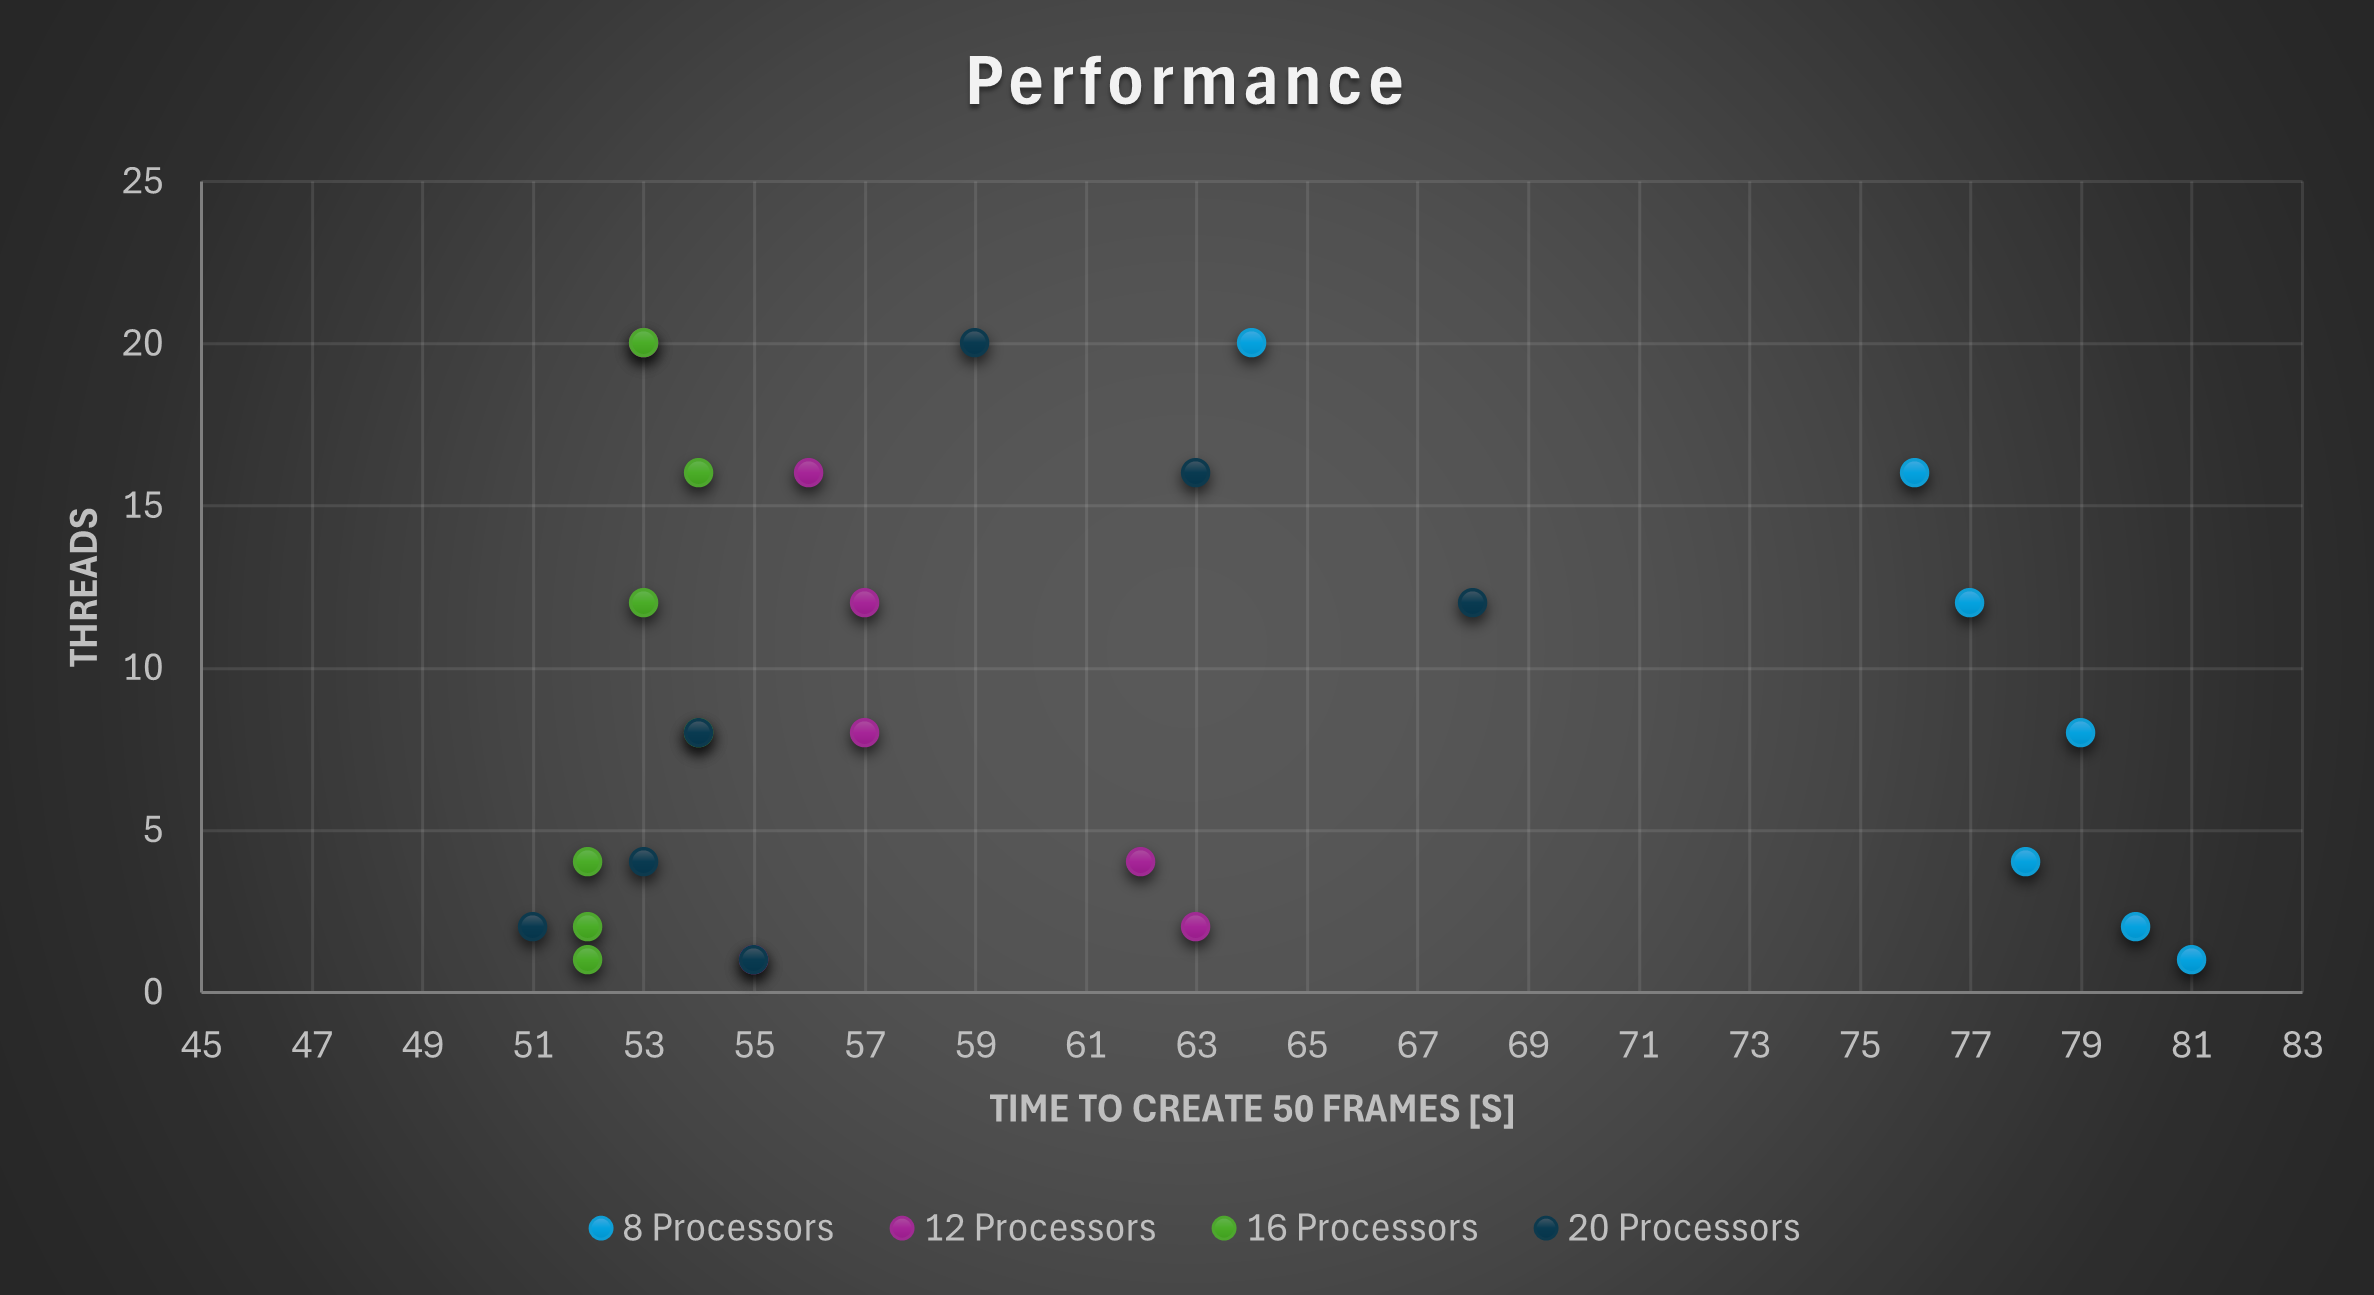
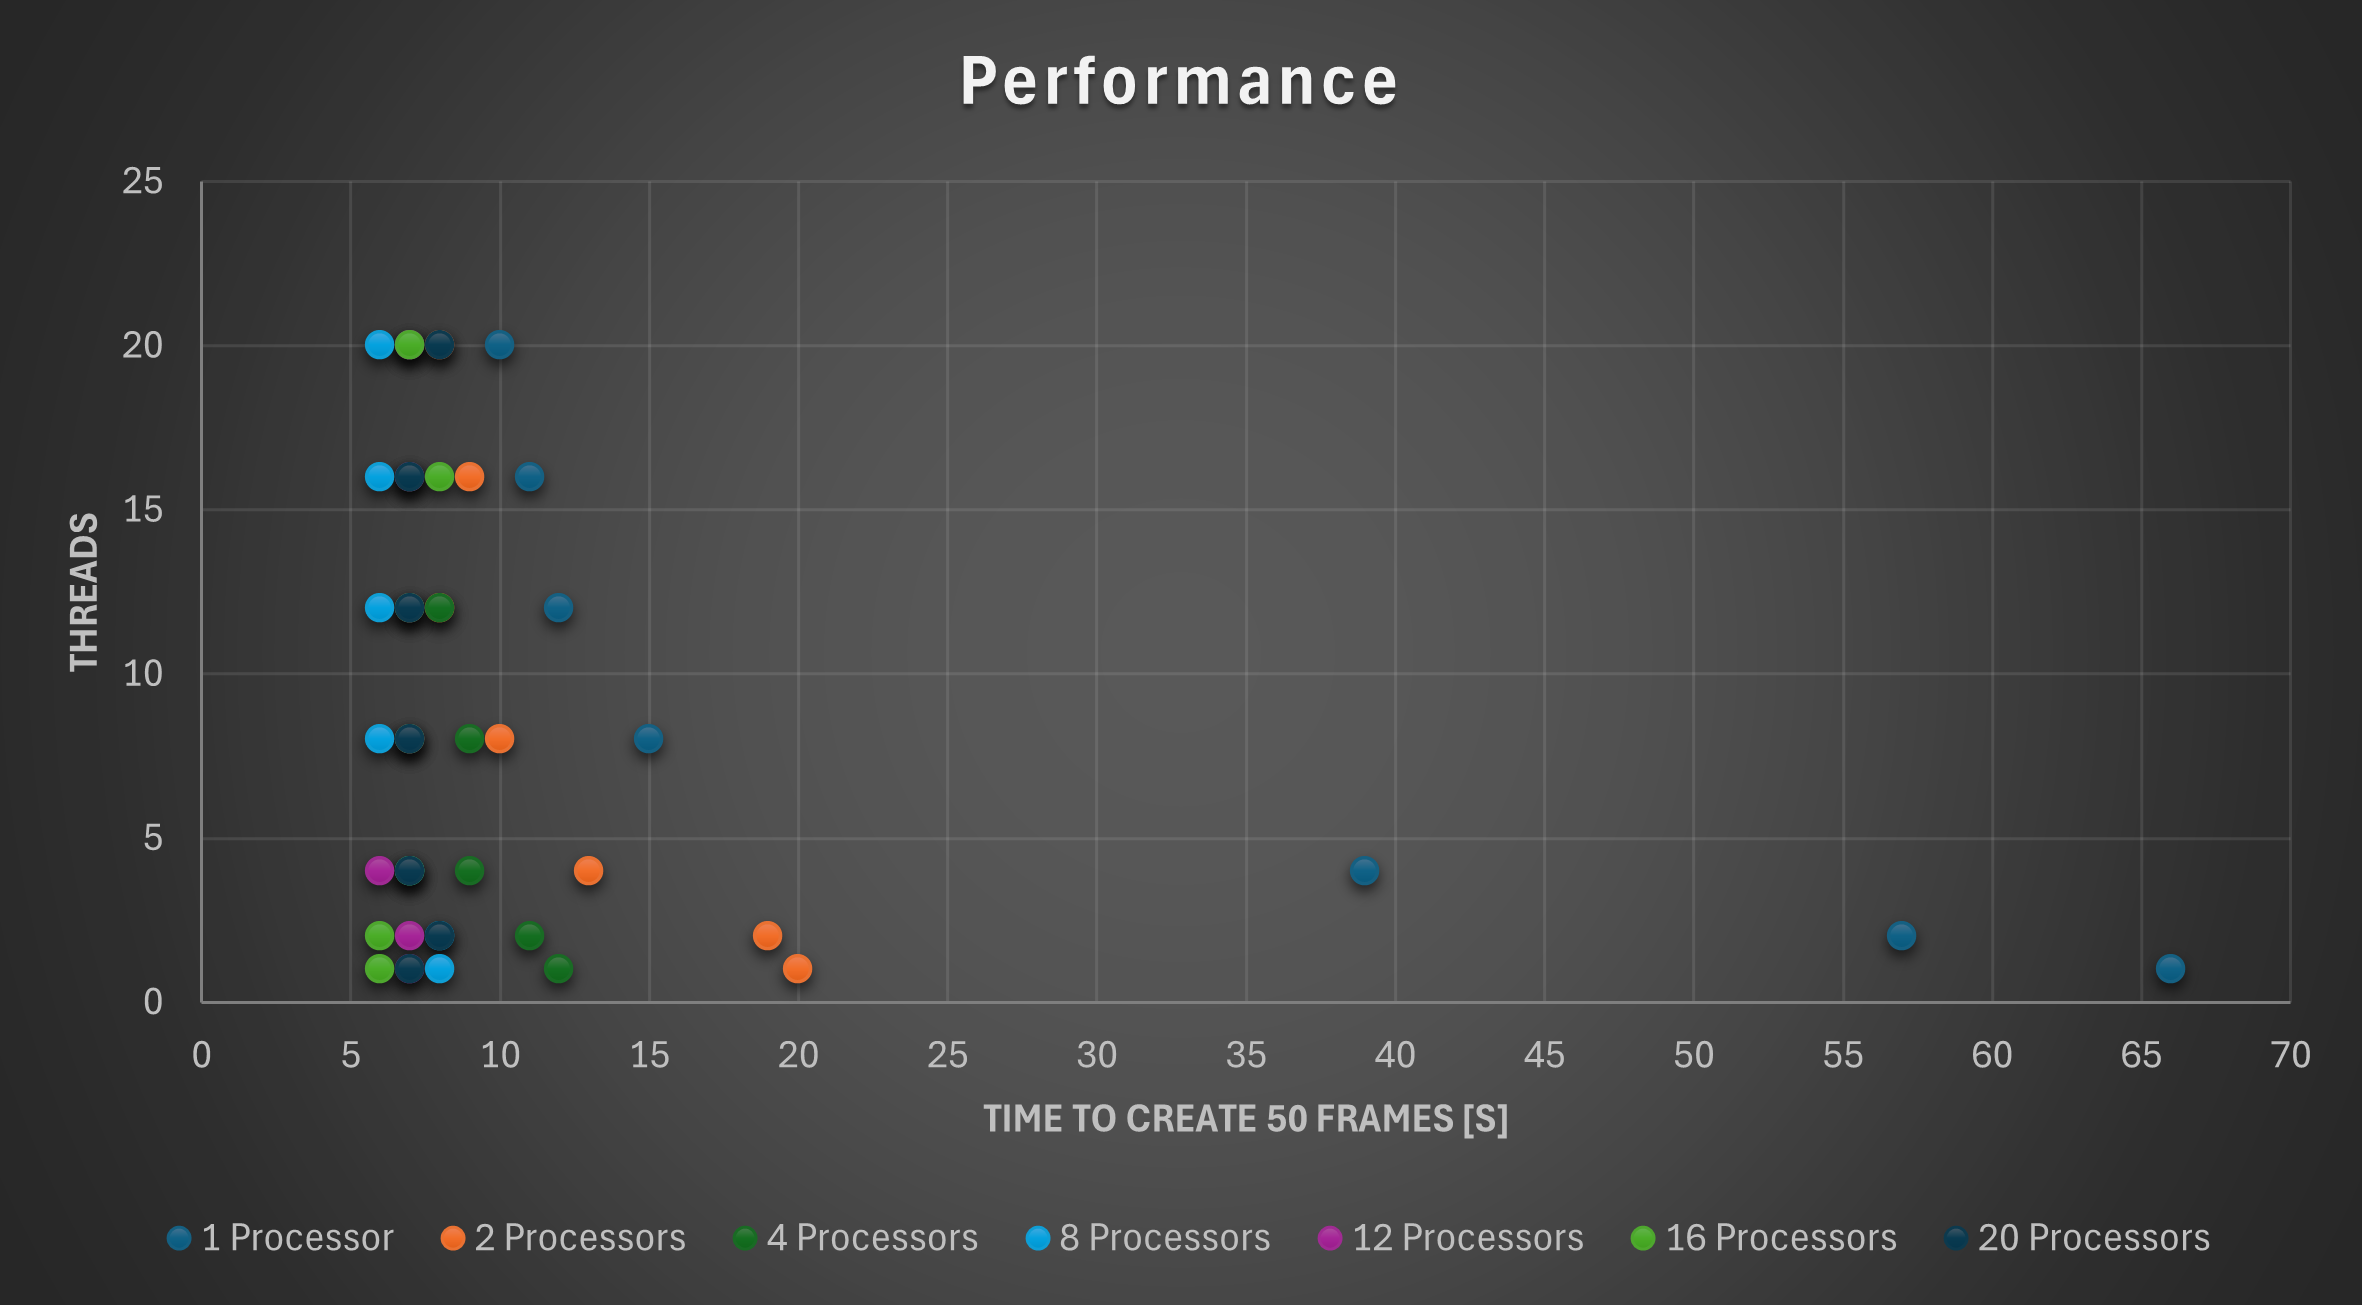
Benchmarking updates

diff --git a/README.md b/README.md
@@ -6,7 +6,7 @@ This program generates Mandelbrot images and combines them into a smooth zoom an
 ### Files
 `jpegrw.c` Handles reading and writing JPEG files 
 `mandel.c` Generates a single image at a given position, zoom, and resolution.
-`mandelMovie.c` Creates multiple image frames by repeatedly running mandel with different zoom levels. It uses multiprocessing to render several frames in parallel.
+`mandelMovie.c` Creates multiple image frames by repeatedly running mandel with different zoom levels. It uses multiprocessing to render several frames in parallel and multithreading within each mandel process.
 
 ## Compilation
 to compile everything run `make`
@@ -18,7 +18,7 @@ to compile everything run `make`
 This creates `test.jpg` centered at (0, 0) with scale 4.
 
 ### Generate a movie sequence
-`./mandelMovie -p 12 -f 80 -x 0.75 -y 0.1 -s 0.25 -z 0.96 -o movie`
+`./mandelMovie -p 12 -t 8 -f 80 -x 0.75 -y 0.1 -s 0.25 -z 0.96 -o movie`
 - `-p <numChildren>` Number of simutaneous processes. Default 1
 - `-f <numFrames>` Number of total frames. Default 10
 - `-x <xCenter>` X center coordinate. Default 0.0
@@ -28,11 +28,10 @@ This creates `test.jpg` centered at (0, 0) with scale 4.
 - `-o <prefix>` Output filename prefix. Default mandel
 - `-t <threads>` Number of threads to use. Default 1
 
-For example: `./mandelMovie -p 4 -f 50 -t 4 -x -0.761574 -y -0.0847596 -s 0.05 -z 0.96 -o spiral` 
+For example: `./mandelMovie -p 8 -f 50 -t 8 -x -0.761574 -y -0.0847596 -s 0.05 -z 0.96 -o spiral` 
 
-creates frames `spiral0.jpg, spiral1.jpg, spiral2.jpg, ...`
+creates frames `spiral0.jpg, spiral1.jpg, spiral2.jpg, ...` using 8 processors and 8 threads.
 
-using 4 processors and 4 threads.
 
 ### Creating the movie
 Once the frames are generated, combine them using FFmpeg
@@ -44,17 +43,20 @@ Once the frames are generated, combine them using FFmpeg
 
 ### Cool Videos to Try
 `./mandelMovie -p 8 -f 80 -t 12 -x -0.75 -y 0.1 -s 0.25 -z 0.96 -o migraine`
-`./mandelMovie -p 50 -f 175 -t 12 -x 0.00164365 -y -0.822467633 -s 0.9 -z 0.93 -o doublespiral`
+`./mandelMovie -p 8 -f 175 -t 12 -x 0.00164365 -y -0.822467633 -s 0.9 -z 0.93 -o doublespiral`
 
 #### Double Spiral Movie
 ![Double Spiral](doublespiral.mp4)
 
-## Benchmarking
+## Processors Benchmarking
 
 Adding more processors sped up the program significantly until it maxed out around 12. The tests were done generating 20 frames.
 ![Benchmarking graph](Performance.png)
 
 
-When using variable processors and threads, increasing processors had the same affect of significantly speeding up the program, while threads had a much smaller affect only slightly increasing the speed. At around 12 processors the CPU maxed out, meaning the device was at capacity and nothing more could be done to help speed up the program. The significant noise in the graph is likely due to other processes running on the computer at the same time. Data from 1, 2, and 4 processors were no included on the graph in order to keep the scale smaller for more visable data.
+## Thread Benchmarking
+Threads were added to speed up each mandel process by dividing the image into horizontal strips and assigning each strip to a different thread.
+
+Using more threads sped up the process, but not as significantly as adding more processors. The tests were done generating 50 frames. The best performance was around 8 processors and 8+ threads.
 ![Benchmarking graph](ThreadsBenchmarking.png)
 ![Benchmarking data](threadsBenchmarkingData.png)
